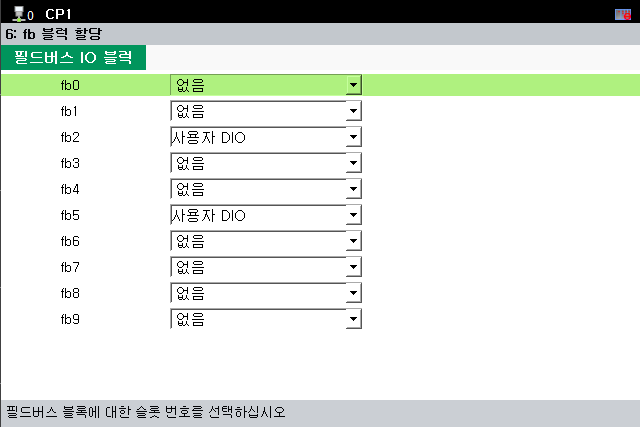
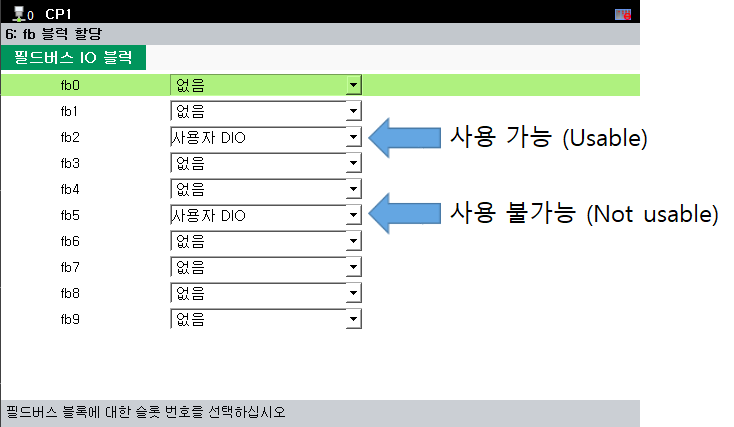
FB블록 다중 할당 주의사항 그림 수정 및 강조 처리

diff --git a/2-Configuration/3-FB-Block-Configuration.md b/2-Configuration/3-FB-Block-Configuration.md
@@ -23,7 +23,7 @@ FB 블럭 설정은 다음 메뉴에서 진행할 수 있습니다.
 그림 13 사용자DIO fb3 할당<br>
 
 {% hint style="warning" %}
-사용자DIO를 여러 FB블럭에 할당하여도 가장 번호가 낮은 FB블럭에서 사용 가능하며, 나머지 할당된 FB블럭은 제어가 무시 됩니다.
+사용자DIO를 여러 FB블럭에 할당하여도 <strong>가장 번호가 낮은 FB블럭에서 사용 가능하며, 나머지 할당된 FB블럭은 제어가 무시</strong> 됩니다.
 {% endhint %}
 
 아래 그림과 같이 FB블럭이 할당 되었을 경우, fb2에서 사용자 DIO 제어가 가능하며, fb5에 입력된 값은 무시됩니다.
